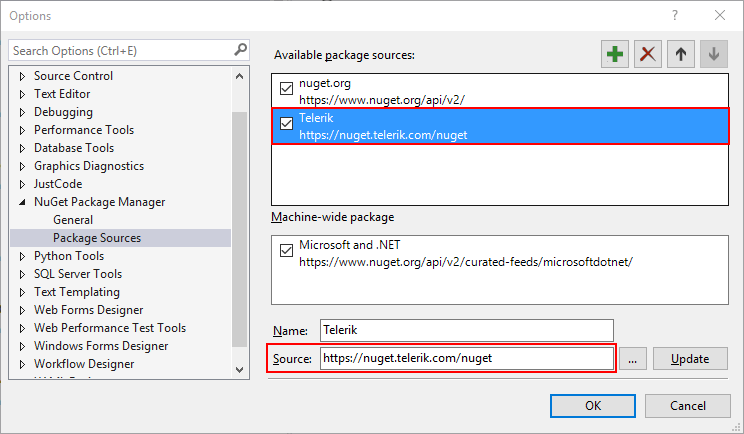
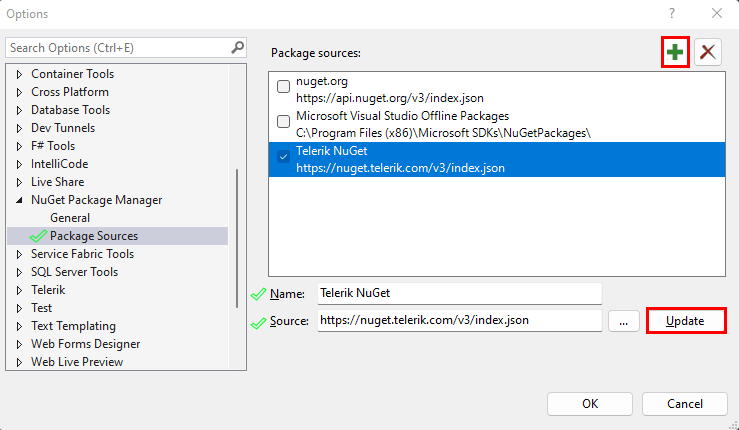
Updates: Install using NuGet Packages

Changed region(s): [[0.0, 0.0, 1.0, 1.0]]

diff --git a/visual-studio-integration/install-using-nuget.md b/visual-studio-integration/install-using-nuget.md
@@ -12,11 +12,84 @@ position: 9
 
 <iframe width="800" height="400" src="https://www.youtube.com/embed/c3m_BLMXNDk" frameborder="0" allow="accelerometer; autoplay; encrypted-media; gyroscope; picture-in-picture" allowfullscreen></iframe>
 
-This article describes how you can install the WinForms suite using a NuGet package. There are two ways for getting the NuGet packages:
+This article explains how to install the Telerik UI for WinForms suite using NuGet packages. There are two methods available for obtaining the NuGet packages:
 
+* [Get the packages from the Telerik NuGet server](#download-from-the-telerik-nuget-server)
 * [Manually download the packages](#manually-download-nuget-packages)
 
-* [Get the packages from the Telerik NuGet server](#download-from-the-nuget-server)
+## Generate an API Key
+
+As the Telerik NuGet server requires authentication, the first step is to obtain an API key that you will use instead of a password. Using an API key instead of a password is a more secure approach, especially when working with [.NET CLI](https://docs.telerik.com/devtools/winforms/visual-studio-integration/install-nuget-keys#using-only-cli-commands) or the [NuGet.Config file](https://docs.telerik.com/devtools/winforms/visual-studio-integration/install-nuget-keys#using-a-nugetconfig-file-with-your-projects).
+
+1. Go to the [API Keys](https://www.telerik.com/account/downloads/api-keys) page in your Telerik account.
+1. Click **Generate New Key +**.
+
+  ![Manage API Keys](images/account-generate-api-key.png)
+
+1. In the **Key Note** field, add a note that describes the API key.
+
+1. Click **Generate Key**.
+
+1. Select **Copy and Close**. Once you close the window, you can no longer copy the generated key. For security reasons, the **API Keys** page displays only a portion of the key.
+
+1. Store the generated NuGet API key as you will need it in the next steps. Whenever you need to authenticate your system with the Telerik NuGet server, use `api-key` as the username and your generated API key as the password.
+
+>API keys expire after two years. Telerik will send you an email when a key is about to expire, but we recommend that you set your own calendar reminder with information about where you used that key: file paths, project links, AzDO and GitHub Action variable names, and so on.
+
+## Download from the Telerik NuGet server
+
+This method allows you to install Telerik UI for WinForms packages directly from the official Telerik NuGet server. To use this approach, you need to configure Visual Studio to connect to the Telerik package server (**https://nuget.telerik.com/v3/index.json**) as a package source.
+
+> The NuGet v2 server at https://nuget.telerik.com/nuget was sunset in November 2024. The new v3 protocol offers faster package searches and restores, improved security, and more reliable infrastructure. To redirect your feed to the NuGet v3 protocol, all you have to do is to change your NuGet package source URL to https://nuget.telerik.com/v3/index.json.
+
+1. First open the __Options__ window. Right-click on the project, from the menu choose **Manage NuGet Packages...**:
+
+	![installation-deployment-and-distribution-install-using-nuget 002](images/installation-deployment-and-distribution-install-using-nuget002.png)
+
+1. **Configure the package source**. Click the **Settings** (gear) icon, then select **Package Sources**. Add a new package source with the following details:
+   - **Name**: Telerik NuGet Feed (or any descriptive name)
+   - **Source**: `https://nuget.telerik.com/v3/index.json`
+
+	![installation-deployment-and-distribution-install-using-nuget 004](images/installation-deployment-and-distribution-install-using-nuget004.png)
+
+1. Click **Update** and then **OK** to save the configuration. You have successfully added the Telerik NuGet feed as a Package source!
+
+1. **Authenticate with the Telerik NuGet server**. When you select the Telerik NuGet Feed as the package source, Visual Studio will prompt you to authenticate. Enter the following credentials:
+   - **Username**: `api-key`
+   - **Password**: Your generated NuGet API key from your Telerik account
+
+	![installation-deployment-and-distribution-install-using-nuget 005](images/installation-deployment-and-distribution-install-using-nuget005.png)
+
+	> **Note:** To generate an API key, log in to your Telerik account and navigate to the Downloads section. The API key is specific to your licensed account and provides access to the packages you are entitled to use.
+
+1. In the Package Manager, browse the Telerik NuGet feed for **UI.for.WinForms.AllControls** package. You will see all Telerik packages available to your licensed account. 
+
+1. Select the target framework version. Choose the package version that matches your project's target framework (.NET Framework 4.8, .NET 6.0, .NET 8.0, .NET 9.0 or later) and click **Install**:
+
+	![installation-deployment-and-distribution-install-using-nuget 006](images/installation-deployment-and-distribution-install-using-nuget006.png)
+
+
+### Reset Stored Credentials
+
+If you have previously stored credentials for the Telerik NuGet server, you need to update them with a new API key. Or if you encounter some authentication issues, follow these steps to reset the stored credentials:
+
+1. Remove any saved credentials from the [Windows Credential Manager](https://support.microsoft.com/en-us/windows/credential-manager-in-windows-1b5c916a-6a16-889f-8581-fc16e8165ac0). Look for entries named `nuget.telerik.com` or `VSCredentials_nuget.telerik.com` entries.
+
+1. Remove the Telerik NuGet package source from Visual Studio.
+
+1. Clear .NET CLI configuration (if applicable). If you have configured the Telerik package source using the .NET CLI, remove it by running these commands:
+
+	- [dotnet nuget list source](https://learn.microsoft.com/en-us/dotnet/core/tools/dotnet-nuget-list-source)
+	- [dotnet nuget remove source](https://learn.microsoft.com/en-us/dotnet/core/tools/dotnet-nuget-remove-source)
+
+
+1. Verify that no credentials are stored in `%AppData%\NuGet\NuGet.Config`. If you find any Telerik-related entries, remove them manually.
+
+1. Try to reset the Visual Studio user data by [forcing NuGet to ask for authentication](https://stackoverflow.com/questions/43550797/how-to-force-nuget-to-ask-for-authentication-when-connecting-to-a-private-feed).
+
+1. Close and restart Visual Studio to ensure all cached credentials are cleared.
+
+1. If you are using the Telerik NuGet feed in a .NET Core application, use a [NuGet API key in the NuGet.Config file]({%slug install-nuget-keys#using-a-nugetconfig-file-with-your-projects%}).
 
 ## Manually Download NuGet Packages
 
@@ -37,32 +110,6 @@ This article describes how you can install the WinForms suite using a NuGet pack
 1. The final step is to select and install the desired packages. Please note that there are several versions, corresponding to the target framework used in the project, one for .NET 4.0, one for 4.8, one for .NET 6.0 or newer. 
 
 	![installation-deployment-and-distribution-install-using-nuget 00](images/installation-deployment-and-distribution-install-using-nuget008.png)
-
-## Download from the NuGet server
-
-You need to add the Telerik package server (**https://nuget.telerik.com/v3/index.json**) to the package sources in visual studio.
-
-> The NuGet v2 server at https://nuget.telerik.com/nuget will be sunset in November 2024. The new v3 protocol offers faster package searches and restores, improved security, and more reliable infrastructure. To redirect your feed to the NuGet v3 protocol, all you have to do is to change your NuGet package source URL to https://nuget.telerik.com/v3/index.json.
-
-1. First open the __Options__ window: 
-
-	![installation-deployment-and-distribution-install-using-nuget 002](images/installation-deployment-and-distribution-install-using-nuget002.png)
-
-1. Add new source and add the server to the Source field:
-
-	![installation-deployment-and-distribution-install-using-nuget 004](images/installation-deployment-and-distribution-install-using-nuget004.png)
-
-1. When the __Package Source__ is selected you will be prompted for a user name and a password. Use the credentials for your Telerik Account:
-
-	![installation-deployment-and-distribution-install-using-nuget 005](images/installation-deployment-and-distribution-install-using-nuget005.png)
-
-1. Then you can just select and install the desired NuGet packages.
-
-    ![installation-deployment-and-distribution-install-using-nuget 006](images/installation-deployment-and-distribution-install-using-nuget006.png)
-
-It is necessary to choose this Nuget package which corresponds to the respective [target framework]({%slug assemblies-version%}) selected in your project:
-
-   ![installation-deployment-and-distribution-install-using-nuget 007](images/installation-deployment-and-distribution-install-using-nuget007.png)
 
 # See Also
 
